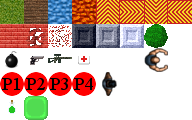
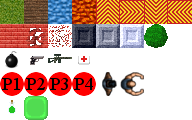
Moved zombie map editor sprite a little to make space for doors.

Changed region(s): [[0.75, 0.4, 0.875, 0.6], [0.625, 0.6, 0.75, 0.8]]

diff --git a/core/src/wge3/game/engine/utilities/MapLoader.java b/core/src/wge3/game/engine/utilities/MapLoader.java
@@ -80,7 +80,7 @@ public final class MapLoader {
                     case 17: object = new Bomb(); break;
                     case 18: object = new Handgun(); break;
                     case 20: object = new HealthPack(); break;
-                    case 23: object = null; area.addCreature(new Zombie(), x, y); break;
+                    case 30: object = null; area.addCreature(new Zombie(), x, y); break;
                         
                     case 25: object = null; area.addCreature(new Player(), x, y); break;
                         
